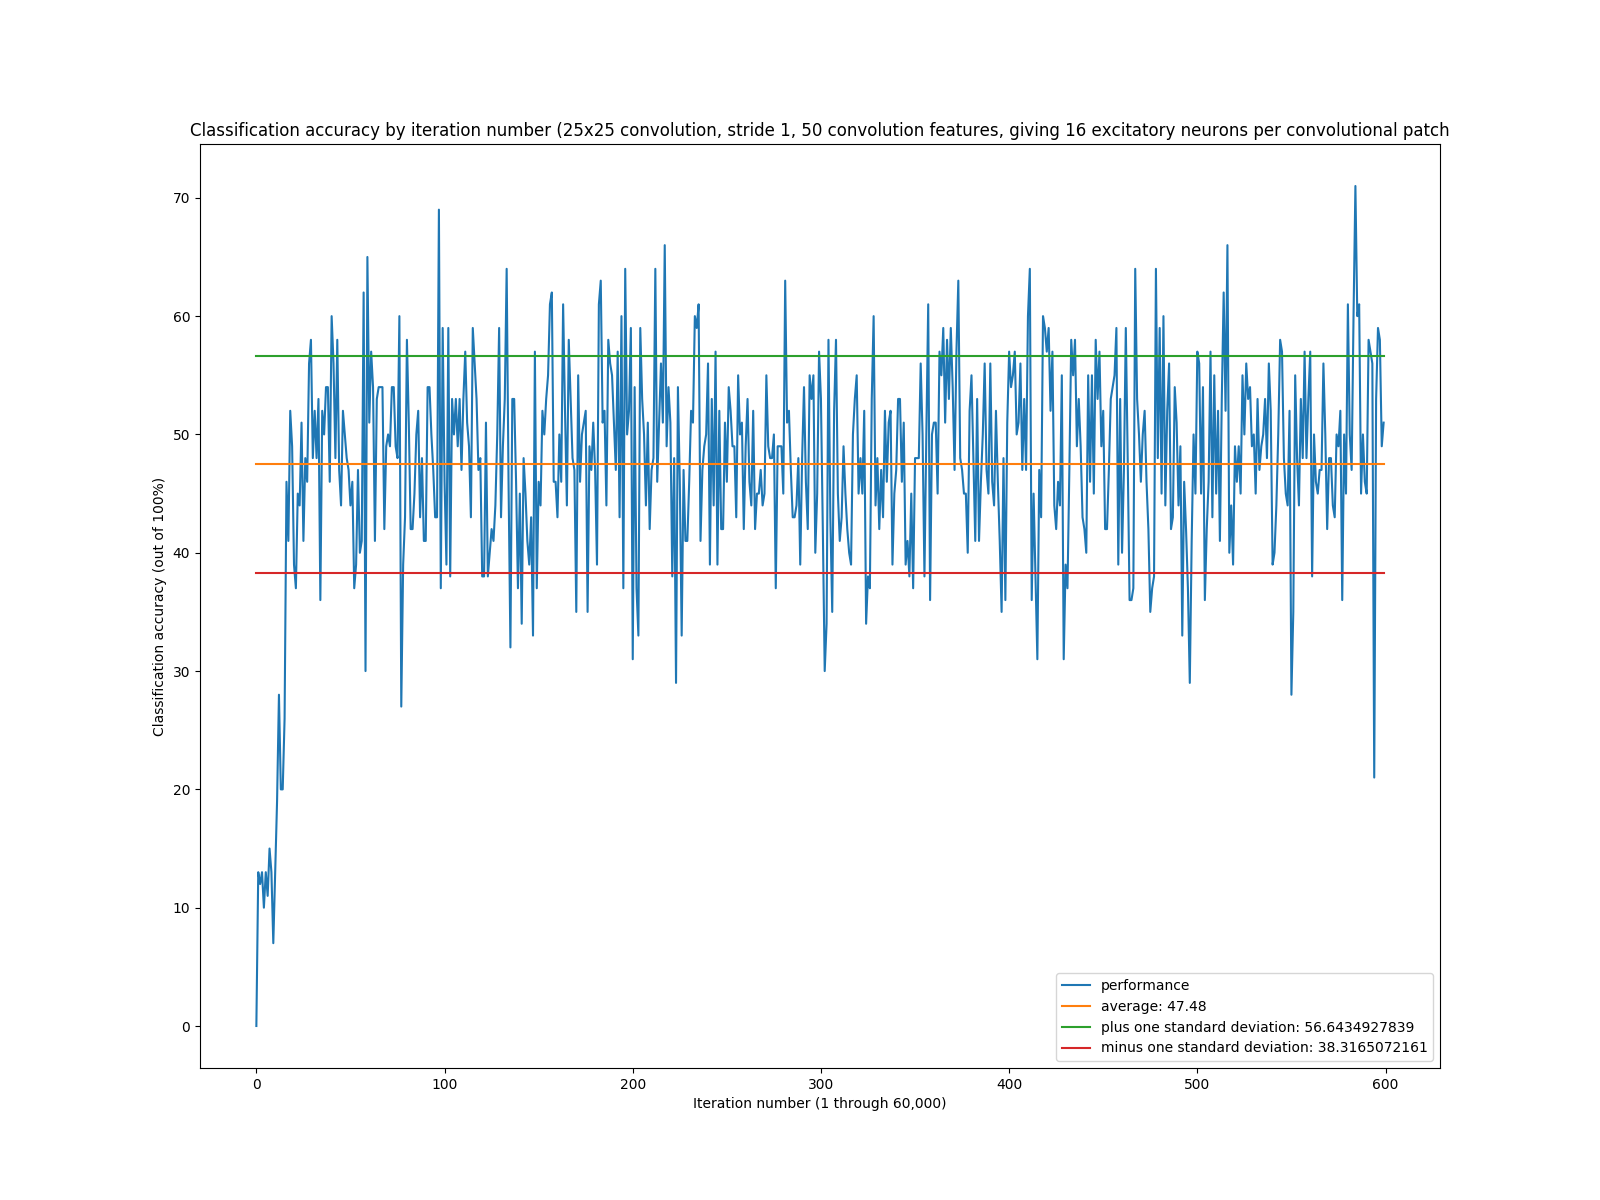
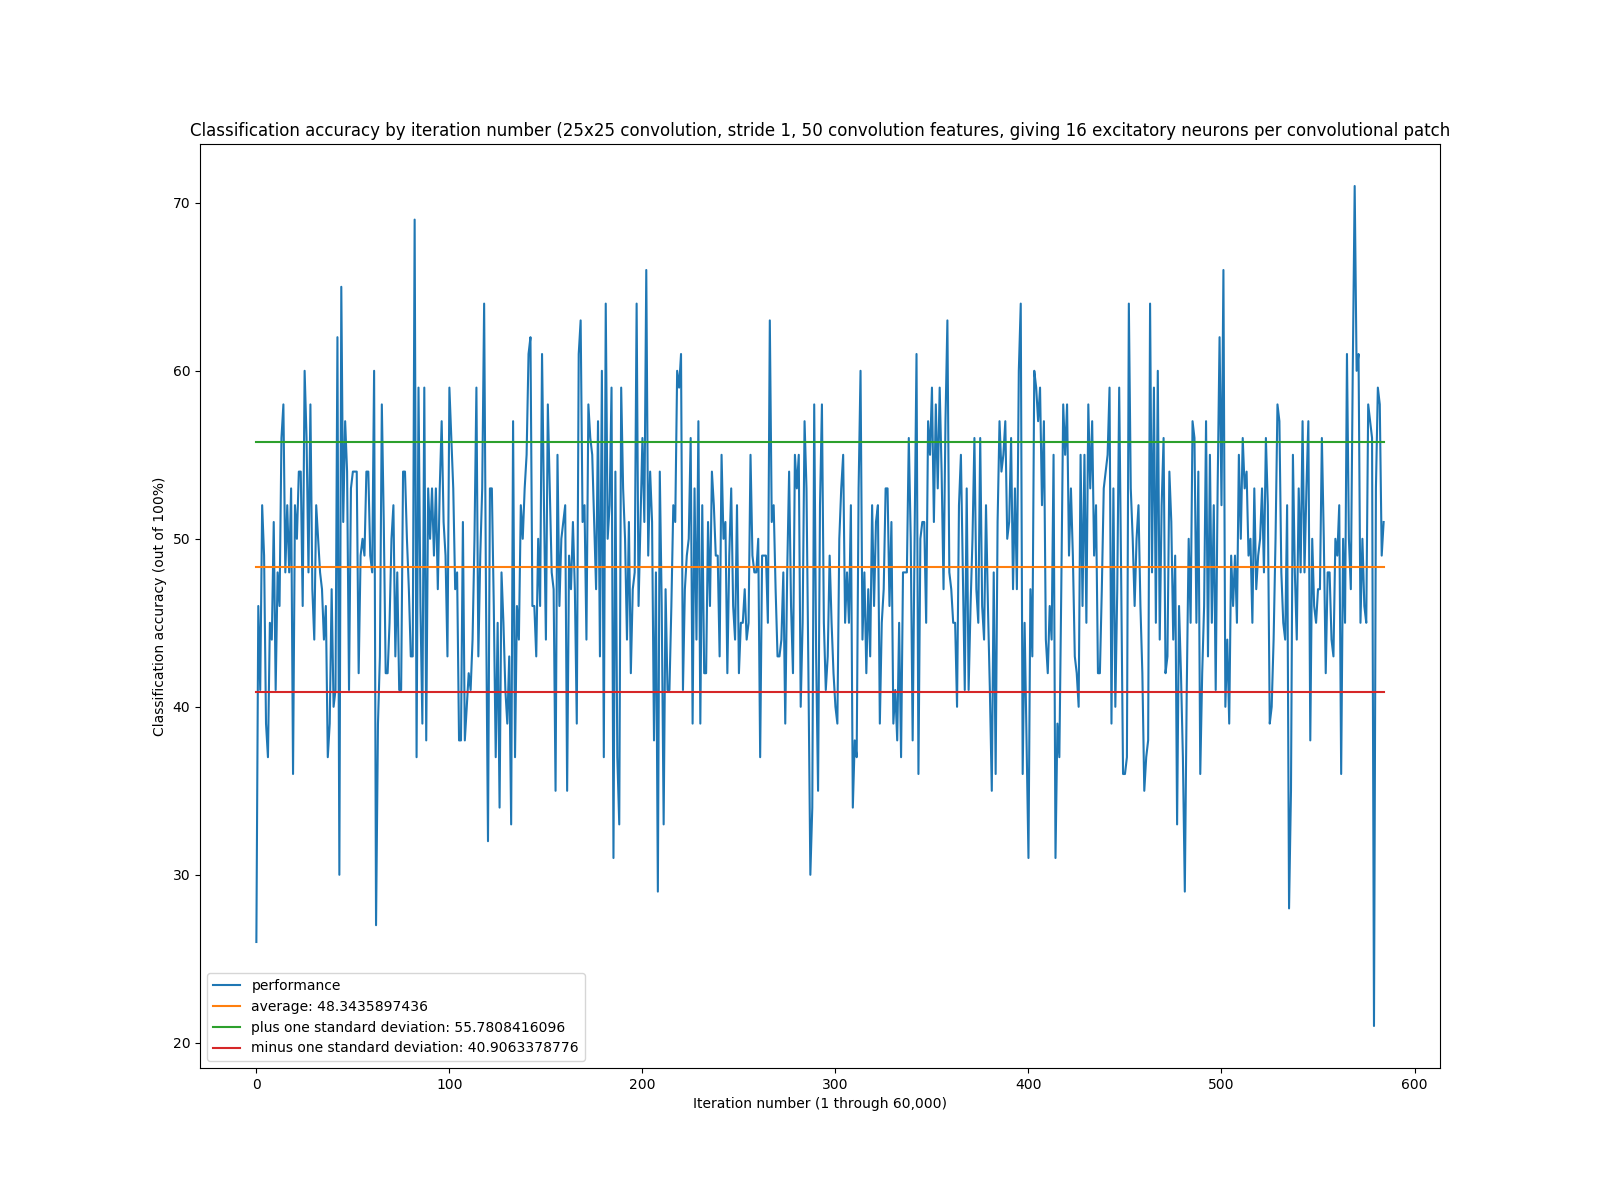
Final tweaks before lab meeting.

diff --git a/code/plot_conv_performance.py b/code/plot_conv_performance.py
@@ -1,4 +1,4 @@
-    from __future__ import division
+from __future__ import division
 
 import matplotlib.pyplot as plt
 import numpy as np
@@ -9,8 +9,8 @@ perf_dir = '../performance/'
 
 perfs = {}
 for file_name in os.listdir(perf_dir):
-    if '59900' in file_name and 'XeAe100' not in file_name:
-        perf_text = open(perf_dir + file_name, 'r').readlines()[2:]
+    if '.txt' in file_name and 'XeAe100' not in file_name:
+        perf_text = open(perf_dir + file_name, 'r').readlines()[1:]
         perfs[file_name] = [ float(token) for token in ''.join(perf_text).replace('\n', '').replace('[', '').replace(']', '').split()  ]
 
 plots = []
